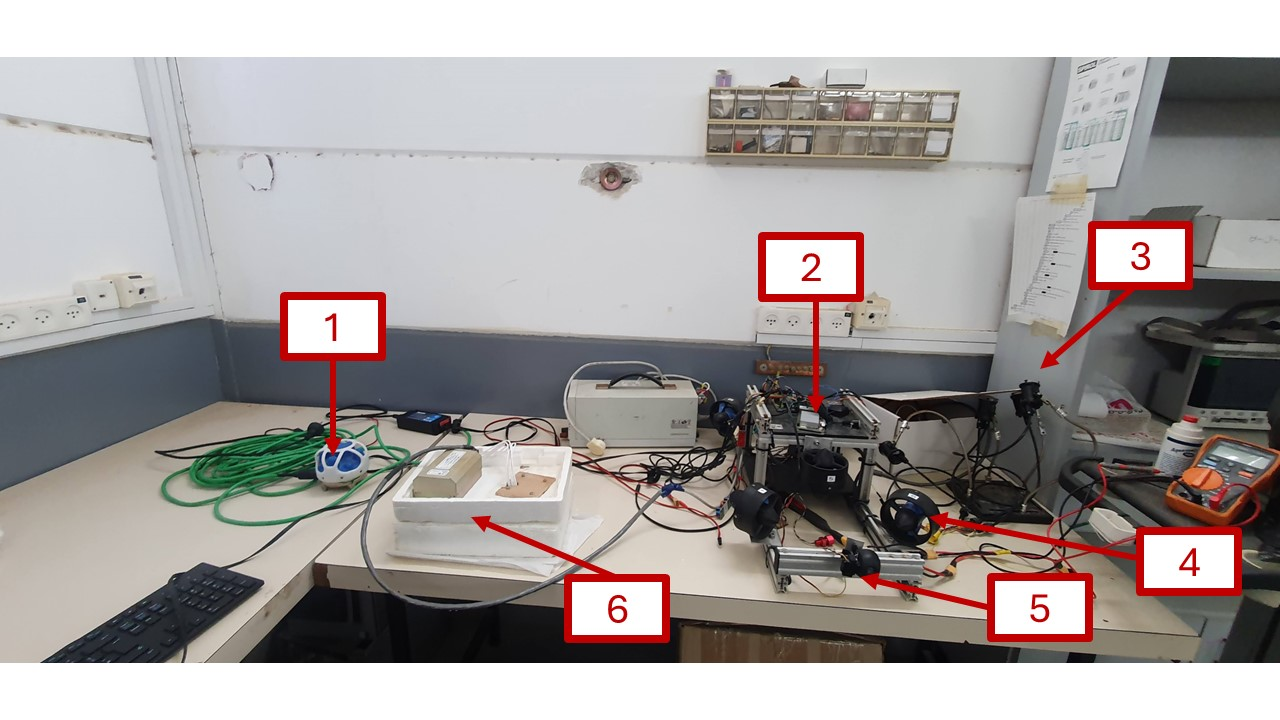
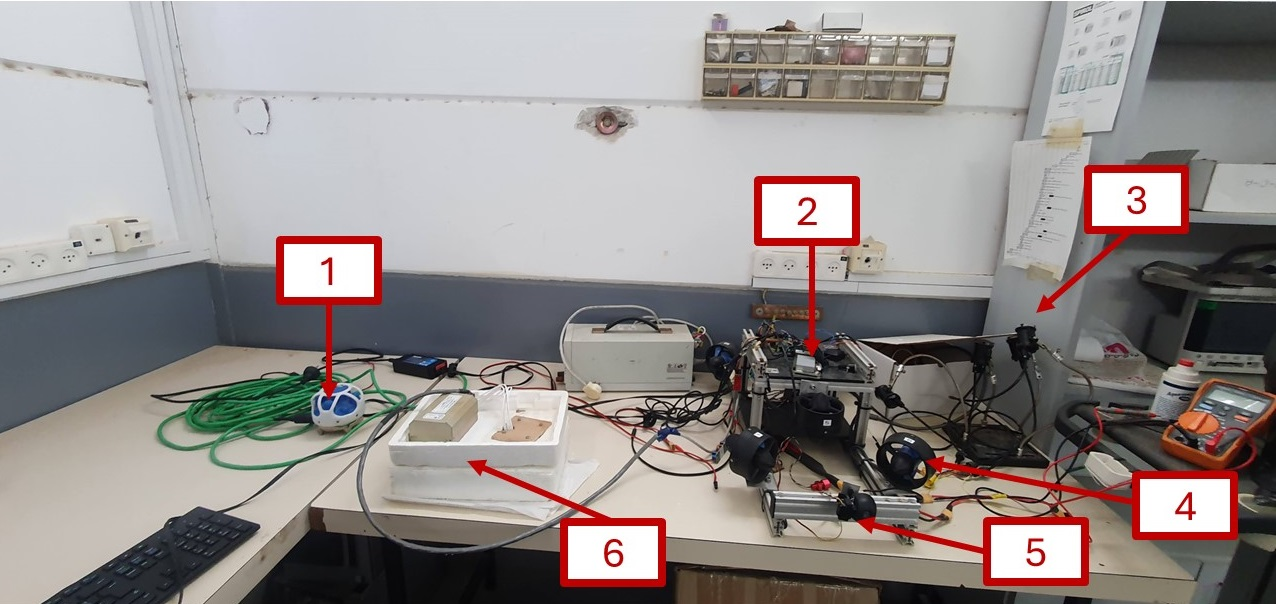
Update the read me

diff --git a/README.md b/README.md
@@ -60,17 +60,18 @@ Joystick / QGC ────────────> /joy  |  /joy_acoustic
 
 ### Inside the electronics tray
 
-![Electronics tray](pics/electronics%20numbered.png)
+![Electronics tray](pics/all_electronics.jpg)
 
 | # | Board |
 |---|-------|
 | 1 | **UP Board** — the main computer (large heatsink) |
 | 2 | **Indicator light** — solid = ESP32 talking to ROS 2, off = link down |
 | 3 | **ESP32** — real-time motor and sensor controller |
-| 4 | **Thruster** |
-| 5 | **I²C connector** — to the temperature sensor |
-| 6 | **GPS antenna** |
-
+| 4 | **Thruster**|
+| 5 | **BNO05** — IMU |
+| 6 | **BAR100** - Pressure Sensor |
+| 7 | **I²C Bus Splitter**  |
+| 8 | **BME280** - Temprature Sensor|
 ---
 
 ## Quick start
@@ -123,7 +124,7 @@ python tools/acoustic_qgc_bridge.py
 
 ### Flying
 
-![QGC fly view](pics/gqc%20notification%20sample.png)
+![QGC fly view](pics/qgc%20working.png)
 
 Telemetry, compass, video and warning banners all appear here. Alerts worth
 knowing: